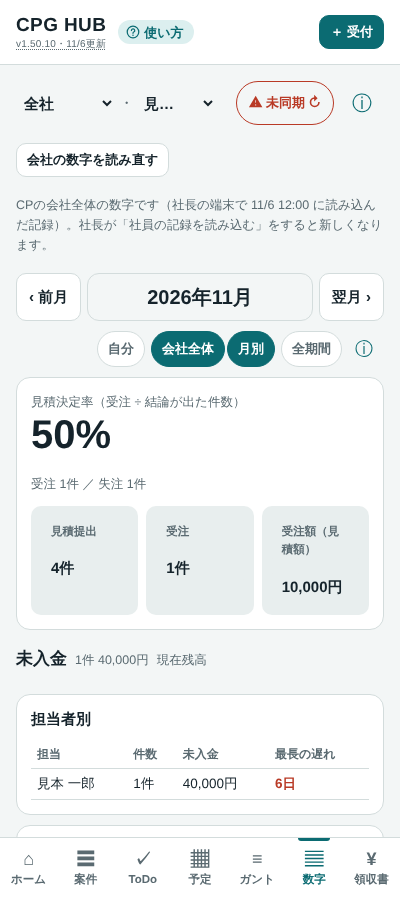
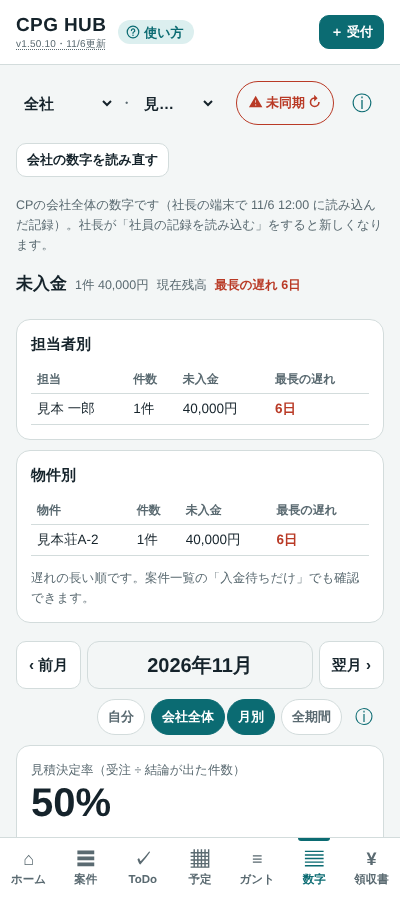
Show unpaid invoices first in the company-wide numbers (v1.50.10)
- In the staff company view, the unpaid section (by person, by property) comes first, with the longest delay in red in its heading
- The president, viewer and "自分" layouts are unchanged

Claude-Session: https://claude.ai/code/session_017ZjmPTZswQcPFukXWs9n4w

diff --git a/index.html b/index.html
@@ -2218,18 +2218,20 @@ function vStats(){
   const group=key=>{const m=new Map();for(const c of un){const k=key(c);const g=m.get(k)||{n:0,sum:0,late:0};g.n++;g.sum+=remainOf(c);g.late=Math.max(g.late,lateDays(c));m.set(k,g)}return [...m.entries()].sort((a,b)=>b[1].late-a[1].late||b[1].sum-a[1].sum)};
   const row=([k,g])=>'<tr><td>'+h(k)+'</td><td class="num">'+g.n+'件</td><td class="num">'+yen(g.sum)+'</td><td class="num"'+(g.late?' style="color:var(--red);font-weight:700"':'')+'>'+(g.late?g.late+'日':'—')+'</td></tr>';
   const tbl=(head,rows)=>'<div class="tbl-wrap"><table class="items" style="min-width:0"><thead><tr><th>'+head+'</th><th>件数</th><th>未入金</th><th>最長の遅れ</th></tr></thead><tbody>'+rows+'</tbody></table></div>';
-  const unpaidSec='<section class="sec" id="stats-unpaid"><div class="sec-h"><h2>未入金</h2><span class="note num">'+un.length+'件 '+yen(un.reduce((s,c)=>s+remainOf(c),0))+'</span><span class="note">現在残高</span></div>'+
+  /* v1.50.10 会社全体では、未入金（回収の遅れ）を一番上に。最長の遅れも見出しに出す */
+  const maxLate=un.reduce((m,c)=>Math.max(m,lateDays(c)),0);
+  const unpaidSec='<section class="sec" id="stats-unpaid"><div class="sec-h"><h2>未入金</h2><span class="note num">'+un.length+'件 '+yen(un.reduce((s,c)=>s+remainOf(c),0))+'</span><span class="note">現在残高</span>'+(coMode&&maxLate?'<span class="note num" style="color:var(--red);font-weight:700">最長の遅れ '+maxLate+'日</span>':'')+'</div>'+
     (un.length?'<div class="panel"><h3>担当者別</h3>'+tbl("担当",group(tl).map(row).join(""))+'</div>'+(!coMode&&acctList().length?acctPanel():'')+
       '<div class="panel"><h3>物件別</h3>'+tbl("物件",group(c=>c.property||"（物件名なし）").map(row).join(""))+'<p class="note" style="margin:0">遅れの長い順です。案件一覧の「入金待ちだけ」でも確認できます。</p></div>'
       :'<div class="empty">未入金の案件はありません</div>')+'</section>';
   return (hasExamples()?'<div class="banner"><b>集計について：</b>（架空）の例と、入力した案件をあわせた数字です。</div>':'')+
   statsWhoSeg()+(coMode&&!coMode.cases?statsCompanyEmpty(coMode):
-  (coMode||scopeState().usable)?(coMode?'<section class="sec">'+statsCompanyNote(coMode)+'</section>':statsNote()?'<section class="sec">'+statsNote()+'</section>':'')+
+  (coMode||scopeState().usable)?(coMode?'<section class="sec">'+statsCompanyNote(coMode)+'</section>'+unpaidSec:statsNote()?'<section class="sec">'+statsNote()+'</section>':'')+
   '<section class="sec" id="stats-won">'+statsPeriodControls()+(undatedLost.length?'<p class="banner stats-undated">失注日が未入力の案件 '+undatedLost.length+'件（案件を開いて日付を入れてください）</p>':'')+'<div class="sec-h"><h2'+(statsStaffDevice()?' class="sr"':'')+'>'+(coMode?h(coMode.co)+' 会社全体の':'')+periodLabel+'の見積と受注</h2>'+statsModeSeg()+'</div>'+
   '<div class="panel"><div class="row" style="align-items:flex-end;gap:18px"><div><div class="note">見積決定率（受注 ÷ 結論が出た件数）</div><div class="big">'+(rate==null?"—":rate+"%")+'</div></div>'+
   '<div class="note num">受注 '+won.length+'件 ／ 失注 '+lost.length+'件</div></div>'+
   '<div class="sum"><div><div class="k">見積提出</div><div class="v">'+sent.length+'件</div></div><div><div class="k">受注</div><div class="v">'+won.length+'件</div></div><div><div class="k">受注額（見積額）</div><div class="v">'+yen(wonAmt)+'</div></div></div></div></section>'+
-  unpaidSec+
+  (coMode?'':unpaidSec)+
   '<section class="sec"><div class="sec-h"><h2>'+periodLabel+'の担当別</h2></div><div class="panel">'+byTanTbl+'</div></section>'+
   '<section class="sec"><div class="sec-h"><h2>失注の理由</h2></div><div class="panel">'+
     reasons.map(([r,n])=>'<div class="brk"><span>'+r+'</span><span class="bar"><i style="width:'+(n/maxR*100)+'%"></i></span><span class="num">'+n+'件</span></div>').join("")+'</div></section>'+

diff --git a/manual.html b/manual.html
@@ -327,7 +327,7 @@ th{color:var(--muted);font-size:13px}
     <li>失注にした案件は、受注日が残っていても受注には数えません。受注したあとに取り消した案件は、元の月の受注に残ります</li>
     <li>失注日が入っていない案件があると「失注日が未入力の案件 ○件」と出ます。案件を開いて日付を入れてください（<a href="#cases">受注日・失注日・理由を直す</a>）</li>
     <li>未入金は今の残高で、選んだ月とは関係ありません</li>
-    <li><b>「自分」と「会社全体」</b>：上の切り替えで <span class="btn">会社全体</span> を押すと、あなたの所属する会社の数字（ほかの社員の分も含む。社長が会社を選んだときと同じ）を見られます。<span class="btn">自分</span> は今までどおり、あなたの案件だけの数字です。2社に所属している人は、会社も切り替えられます。ほかの会社の数字は出ません</li>
+    <li><b>「自分」と「会社全体」</b>：上の切り替えで <span class="btn">会社全体</span> を押すと、あなたの所属する会社の数字（ほかの社員の分も含む。社長が会社を選んだときと同じ）を見られます。<b>未入金（担当者別・物件別・最長の遅れ）が一番上</b>に出ます。回収の遅れを会社のみんなで確かめるためです。<span class="btn">自分</span> は今までどおり、あなたの案件だけの数字です。2社に所属している人は、会社も切り替えられます。ほかの会社の数字は出ません</li>
     <li>「会社全体」の数字は、社長の端末で「社員の記録を読み込む」をした時点のものです（画面に日時が出ます）。新しくするときは <span class="btn">会社の数字を読み直す</span>。「まだ届いていません」と出たときは、社長が会社の数字の共有をまだ合わせていないか、まだ読み込んでいません</li>
     <li>「会社全体」を見られるのは「数字」の画面だけです。案件・予定・ToDo・領収書の画面は、今までどおり自分の分だけです。立替・領収書の金額は「会社全体」にも出ません</li>
   </ul>

diff --git a/README.md b/README.md
@@ -246,6 +246,7 @@ GMが見たり指示を出したりできる相手は、GMと同じ1社だけに
 - **共有**：そのシートを、その会社に所属する社員（外していない人）にだけ「閲覧者」で共有します（`numSpecs`。今の共有の仕組み CPGShares の確認の一覧・読戻し・共有管理履歴にそのまま乗せる）。ファイルは共有の確認のときに作り、前に作ったもの（ほかの端末で作ったもの）があれば名前で見つけて使います。各社員の記録シートに「会社の数字の場所」タブ（その人の会社の分だけ）を書きます（`numPtrWrite`）。最初の1回は「管理（社長用）」の「会社の数字の共有を合わせる」で合わせます。
 - **社員の記録シートを社員どうしで共有する方式にしなかった理由**：記録シートには立替・領収書のタブがあり、共有するとGoogleスプレッドシートで直接見えてしまうため（「領収書・立替の金額は出さない」に反する）。書き出し方式なら、見せる列を決められ、ほかの会社の分は共有自体がありません。
 - **社員の端末**（`numLoad`・`statsCompanyMode`）：「会社全体」を押すと、自分の記録シートの「会社の数字の場所」から読み、シートの「情報」の会社が一致し、すべての行がその会社のときだけ使います（共有されていないシートは403で読めません）。数字の計算は `vStats` をそのまま使います（社長が会社を選んだときと同じ。未入金の物件別も出す）。経理への入金確認の操作（この端末の案件が対象）は出しません。端末には、読んだ数字を `workhub_company_numbers_v1` に控えます（記録シートごと）。
+- **未入金を一番上に**：会社全体では、回収の遅れを皆で追えるよう、未入金（担当者別・物件別）を一番上に出し、見出しに「最長の遅れ ○日」を赤で出します（社長・見る人・「自分」の並びは今までどおり）。
 - **画面**：「自分／会社全体」は「月別／全期間」と同じ見た目で、同じ行に並べます（社員の端末だけ。見出しは画面に出さず読み上げ用）。2社の人は会社も切り替えます。社長・見る人の端末は今までどおりです。
 - 試験：`tests/company-numbers-browser.cjs`（10項目）。試験中に、まだ数字が届いていないときに画面が止まる不具合を見つけて直しました。
 
